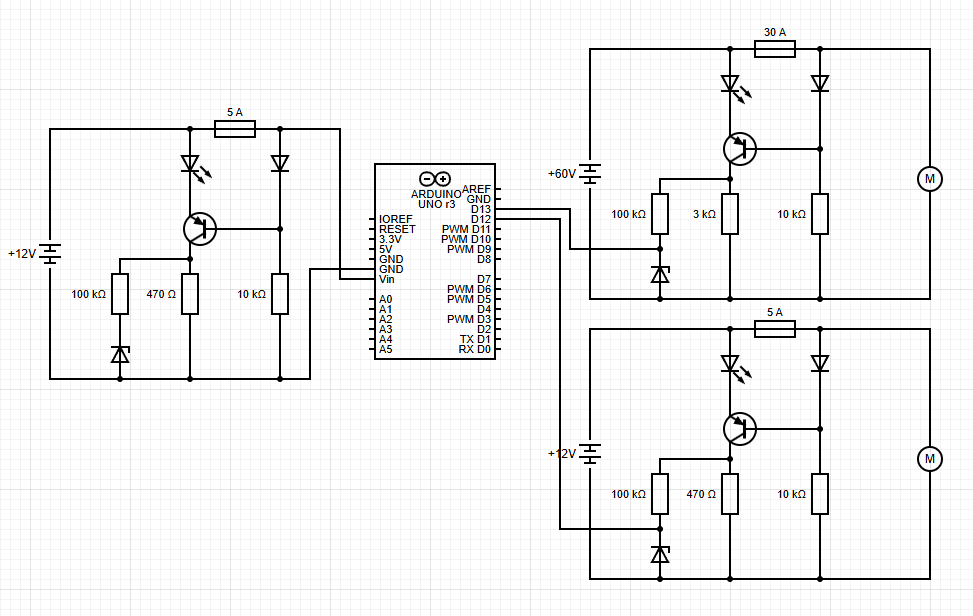
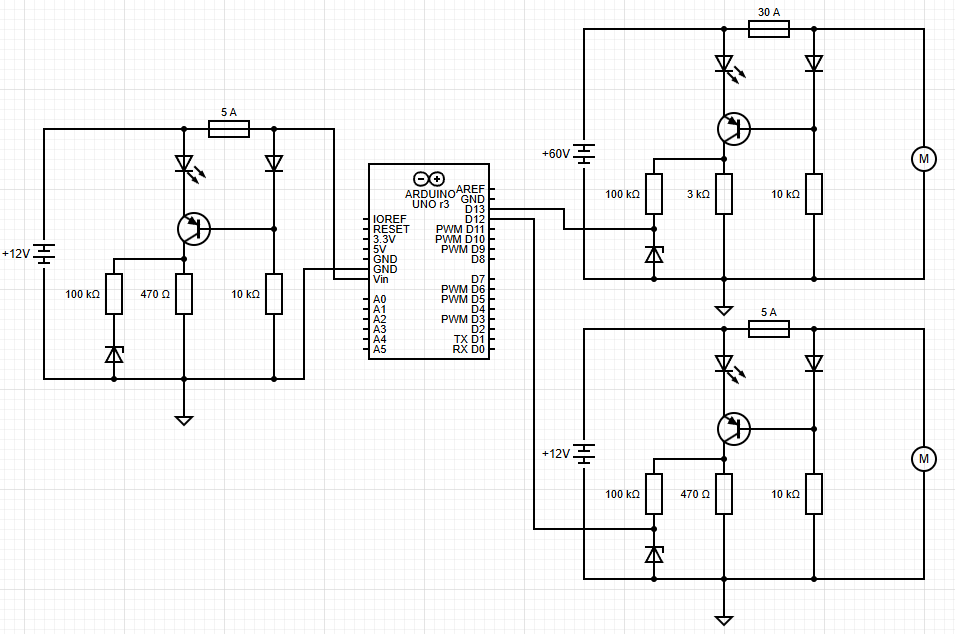
change circuit image 2

diff --git a/content/posts/solar-ebike.md b/content/posts/solar-ebike.md
@@ -141,7 +141,7 @@ The power pathway starts from the battery where it is sent into the high voltage
 In order to ensure all systems are operating as intended, the overhaul introduces fused connections, fault detection, and datalogging to the bike. This system divides the bike into several nodes each containing its own microcontroller. When a fault is detected, the microcontroller logs the issue before sending it to the central node which informs the cockpit dashboard of the fault.
 
 
-![Fault Detection Circuit](circuit.png)
+![Fault Detection Circuit](circuit2.png)
 
 ## Electrical Wiring
 
